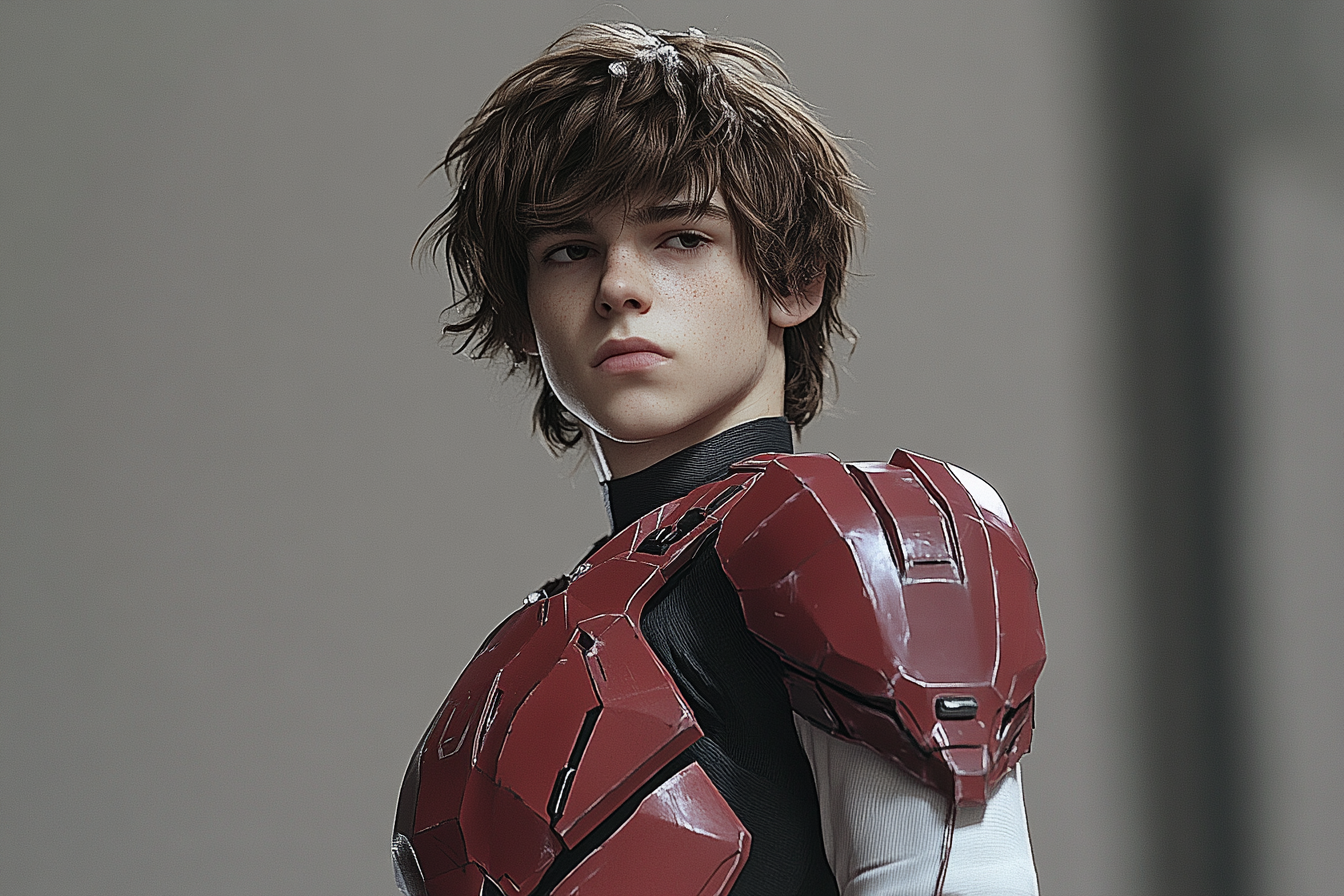
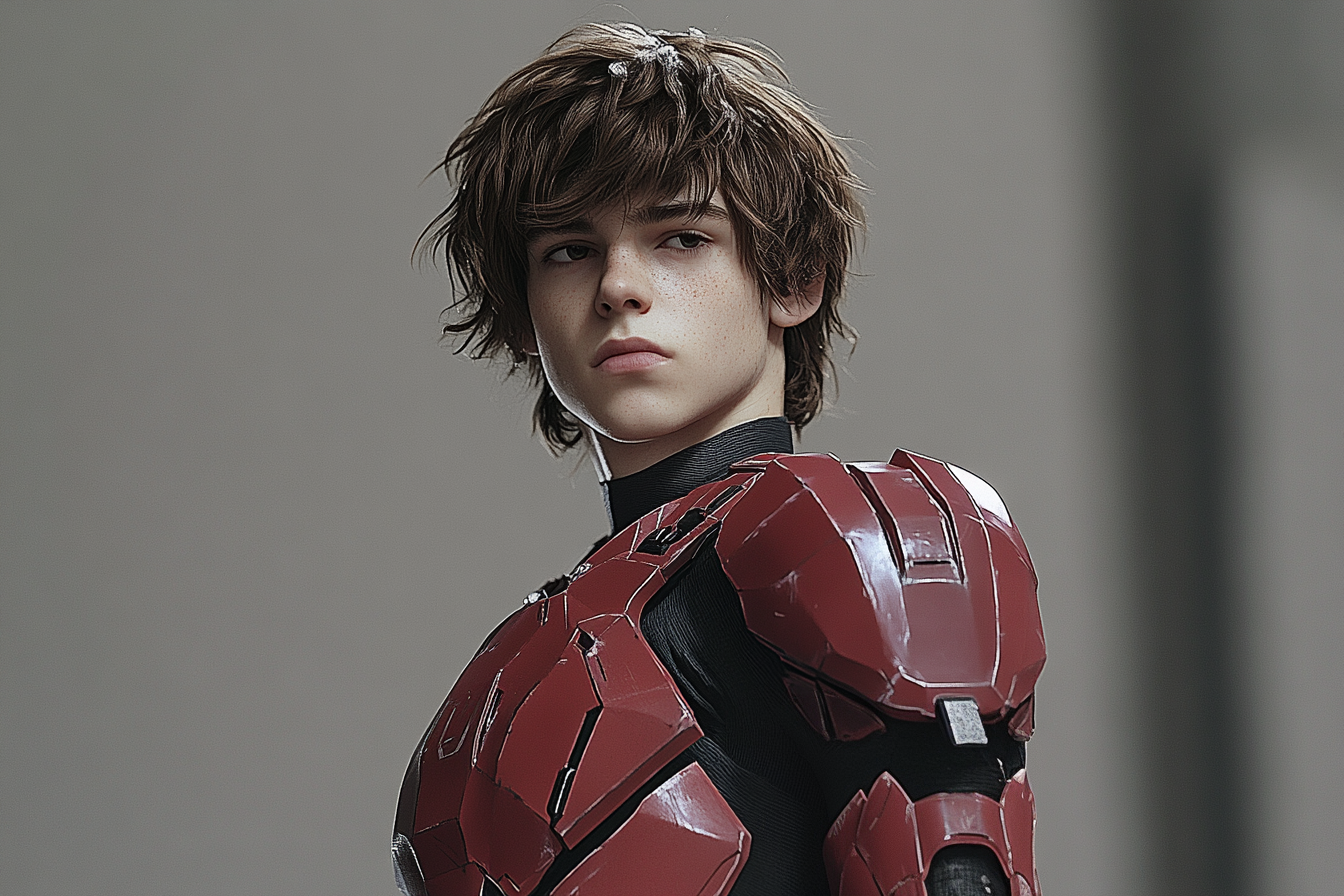
GITBOOK-781: No subject

Changed region(s): [[0.5938, 0.7812, 0.7812, 1.0]]

diff --git a/narrative/cast/finn-hughes.md b/narrative/cast/finn-hughes.md
@@ -41,7 +41,7 @@ Finn's early life was difficult. Orphaned at a young age, he grew up in a refuge
 
 Finn's performance in the program was exceptional, and he underwent years of exhaustive hand-to-hand, weapons, and tactical training. Despite being offered a position in the prestigious Maverick program, he instead chose to join the Rapid Response team, valuing the opportunity to help others in crises over the combat-focused Maverick role. His decision was influenced by his long-held belief in the innate goodness of people.
 
-<figure><img src="../../.gitbook/assets/nomoney420_httpss.mj.runroaWQQY9K1k_httpss.mj.runFhL4fFbncUc__d5fdf177-90ff-486e-99c4-00cb53d7f564_1.png" alt="" width="375"><figcaption><p>A young Finn, founding member of Rapid Response.</p></figcaption></figure>
+<figure><img src="../../.gitbook/assets/nomoney420_httpss.mj.runroaWQQY9K1k_httpss.mj.runFhL4fFbncUc__d5fdf177-90ff-486e-99c4-00cb53d7f564_1.png" alt="" width="563"><figcaption><p>A young Finn, founding member of Rapid Response.</p></figcaption></figure>
 
 Finn's many deployment to crisis zones and natural disasters made him a legendary figure within Rapid Response. His remarkable ability to remain calm under pressure and lead rescue operations earned him the respect and admiration of his peers. The UDA program's Clear therapy slowed his body's aging, allowing him to operate for several decades, and causing him to appear perpetually 20 years old.
 
@@ -50,6 +50,8 @@ As a Rapid Response operative, Finn’s loyalty to GATA was unwavering, yet he m
 His missions often brought him into contact with sovereigns from the Free Territories, where he gained respect for their resilience despite standing in opposition to many sovereigns on the field.
 
 In time, Finn took on a mentorship role for younger Rapid Response recruits, sharing his extensive experience and wisdom while guiding them through their own struggles and challenges, and working to bring out the best in his teammates. However, he remained known for his self-assured, decisive, no-nonsense attitude in the field, which some less familiar with him sometimes mistook for arrogance.
+
+<figure><img src="../../.gitbook/assets/nomoney420_long_shot_photo_of_a_caucasian_male_in_a_slim_body_f9b1ef73-98f0-4407-9433-26d09b381546_3.png" alt="" width="563"><figcaption><p>Face to face with an old friend.</p></figcaption></figure>
 
 Tragically, Finn's life ended in 2115 during the Bright Mesa terrorist attack, where he heroically confronted and defeated the terrorist known as the Butcher of Bright Mesa. His sacrifice doubtlessly saved countless lives, cementing his legacy as the greatest Rapid Response operative in history.
 
